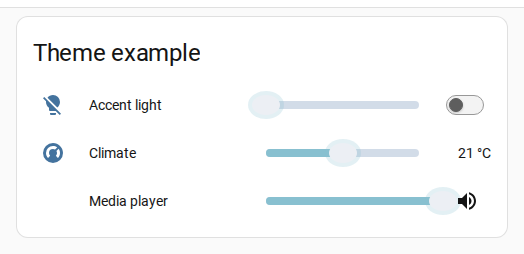
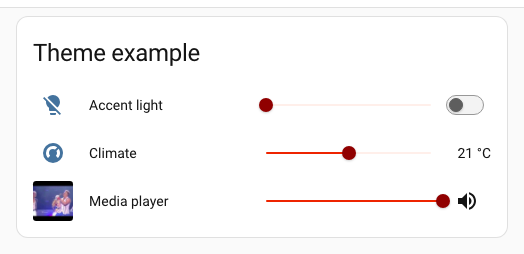
docs: Update example yaml and generate

diff --git a/README.md b/README.md
@@ -127,14 +127,14 @@ Example Home Assistant theme (theme keys omit the leading `--` used in CSS):
 frontend:
   themes:
     slider_entity_row_example:
-      slider-entity-row-track-color: 'rgba(94, 129, 172, 0.28)'
-      slider-entity-row-indicator-color: '#88c0d0'
-      slider-entity-row-thumb-color: '#eceff4'
-      slider-entity-row-thumb-height: '20px'
-      slider-entity-row-thumb-width: '28px'
-      slider-entity-row-track-size: '8px'
-      slider-entity-row-box-shadow: '0 0 0 4px rgba(136, 192, 208, 0.24)'
-      slider-entity-row-state-min-width: '64px'
+      slider-entity-row-thumb-height: 14px
+      slider-entity-row-thumb-width: 14px
+      slider-entity-row-track-size: 2px
+      slider-entity-row-state-min-width: 52px
+      slider-entity-row-track-color: "#ffefea"
+      slider-entity-row-indicator-color: "#ee2400"
+      slider-entity-row-thumb-color: "#900000"
+      slider-entity-row-box-shadow: rgba(0, 0, 0, 0.08) 0px 1px 2px 0px, rgba(0, 0, 0, 0.12) 0px 1px 3px 0px
 ```
 
 ![theme example](docs/source/assets/images/04_theme.png)
